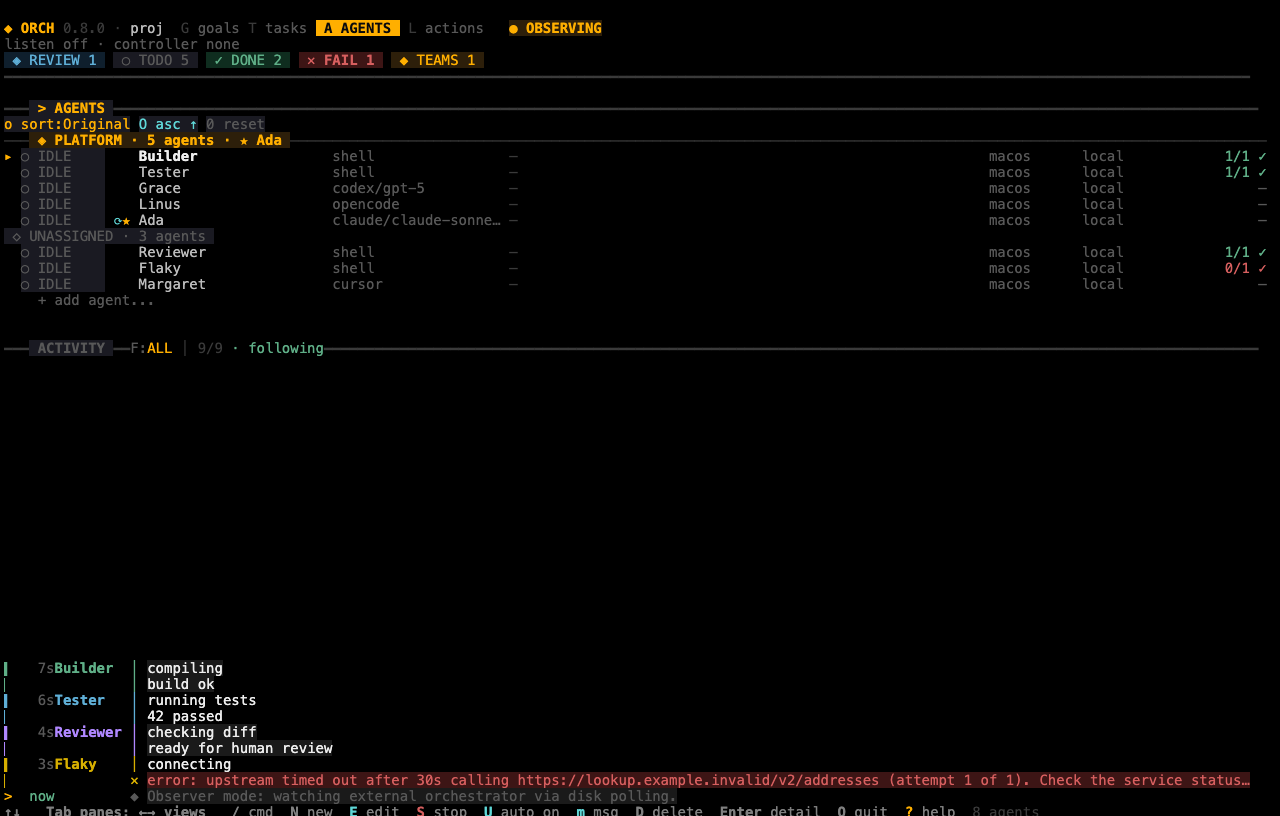
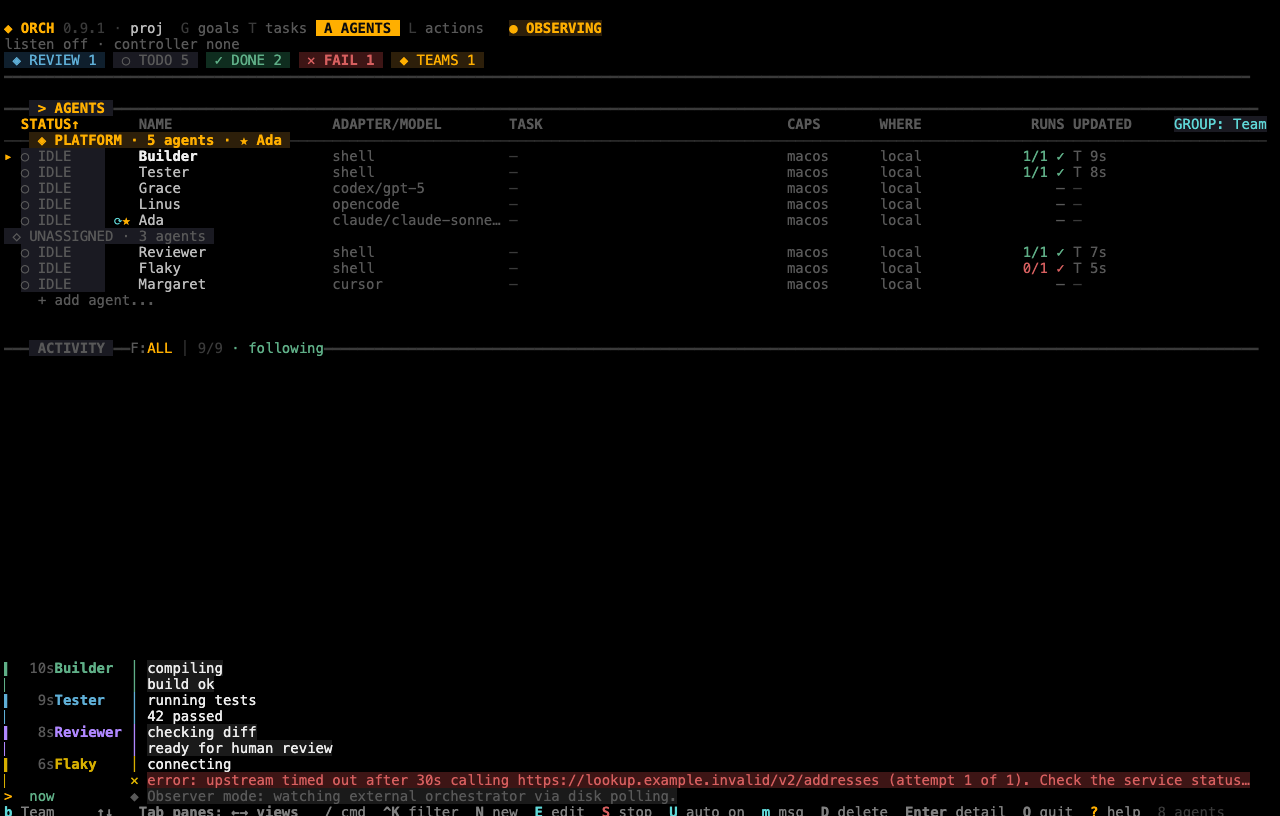
docs(manual): describe the Agents table and its groupings
- 08-dashboard: Sort the lists names the Agents default (STATUS↑) and the
  kept arrow on a cut label; Sort and group agents is rewritten for the
  eight sortable columns, UPDATED's R/T meaning, the six b/B groupings,
  the footer `b <Mode>` hint and the GROUP chip from 108 columns, and the
  narrow-terminal column order; the Agents keys table gains b/B and the
  header, footer and chip clicks; the keyword filter matches capabilities;
  the mouse-off footer marker reads `⌨ mouse off · F2`.
- 03-agents and 08-dashboard: the screenshot caption no longer describes
  the removed sort chips.
- images/dashboard-agents.png regenerated with docs/manual/tools.

diff --git a/docs/manual/08-dashboard.md b/docs/manual/08-dashboard.md
@@ -95,12 +95,12 @@ The dashboard has four views. The tab for the current view is upper case in the 
 |---|---|---|
 | Goals | `G` | [Goals](02-concepts.md#goals) and their progress. |
 | Tasks | `T` | [Tasks](02-concepts.md#tasks). This is the default view. |
-| Agents | `A` | [Agents](02-concepts.md#agents-and-adapters) as a table, grouped by team. |
+| Agents | `A` | [Agents](02-concepts.md#agents-and-adapters) as a table, grouped by team by default. |
 | Actions | `L` | The log of everything agents and the orchestrator did, with filters. |
 
-![The Agents view: a table of agents grouped by team, with each agent's status, adapter and model, platform, location and run results](images/dashboard-agents.png)
+![The Agents view: a table of agents grouped by team, with each agent's status, name, adapter and model, capabilities, location, runs and last update](images/dashboard-agents.png)
 
-*The Agents view. The sort controls sit above the table; the team lead is marked with a star.*
+*The Agents view, grouped by team. Click a column header to sort; the `GROUP: Team` chip at the end of the header row names the grouping. The team lead is marked with a star.*
 
 To switch views:
 
@@ -168,10 +168,10 @@ The Goals, Tasks and Agents lists have a column header row. Each list keeps its 
 |---|---|
 | `o` | Moves the sort to the next column, keeping the direction. |
 | `O` | Reverses the direction, keeping the column. |
-| `0` | Restores that list's default order. |
+| `0` | Restores that list's default order. In Agents that is STATUS ascending. |
 | Click a header | An inactive column sorts by it ascending; the active column flips its direction. |
 
-The active column is marked `↑` or `↓`.
+The active column is marked `↑` or `↓`. When a column is too narrow for its whole label, the label is cut and the arrow stays, for example `ADAPTER/…↑`. For what each Agents column sorts by, see [Sort and group agents](#sort-and-group-agents).
 
 Goals and Tasks also have a Started and an Elapsed* column, both blank for an entity that never started.
 
@@ -181,18 +181,97 @@ A task's Started is its earliest retained run record, which is written while the
 
 ## Sort and group agents
 
-In the Agents view you can sort and group the table for this session. The chips above the list offer the same controls.
+The Agents list is a table with one header row, like Goals and Tasks. You sort it with the keys in [Sort the lists](#sort-the-lists) and cut it into sections with `b`. The sort and the grouping are separate: the sort orders the agents inside each section, and neither one resets the other. Both keep the selected agent selected, and both last only until you close the dashboard.
 
-| Key | What it does |
+This is the Agents view of a small project in a 120-column terminal, grouped by team and in the default order:
+
+```text
+━━━ > AGENTS ━━━━━━━━━━━━━━━━━━━━━━━━━━━━━━━━━━━━━━━━━━━━━━━━━━━━━━━━━━━━━━━━━━━━━━━━━━━━━━━━━━━━━━━━━━━━━━━━━━━━━━━━━━
+  STATUS↑       NAME           ADAPTER/M… TASK                 CAPS       WHERE             RUNS UPDATED     GROUP: Team
+─── ◈ PLATFORM · 5 agents · ★ Ada ──────────────────────────────────────────────────────────────────────────────────────
+▸ ○ IDLE        Builder        shell      —                    macos      local            1/1 ✓ T 1m
+  ○ IDLE        Tester         shell      —                    macos      local            1/1 ✓ T 1m
+  ○ IDLE        Grace          codex/gpt… —                    macos      local                — —
+  ○ IDLE        Linus          opencode   —                    macos      local                — —
+  ○ IDLE     ⟳★ Ada            claude/cl… —                    macos      local                — —
+ ◇ UNASSIGNED · 3 agents
+  ○ IDLE        Reviewer       shell      —                    macos      local            1/1 ✓ T 19s
+  ○ IDLE        Flaky          shell      —                    macos      local            0/1 ✓ T 1m
+  ○ IDLE        Margaret       cursor     —                    macos      local                — —
+    + add agent...
+…
+b Team     ↑↓   Tab panes; ←→ views   / cmd  ^K filter  N new  E edit  S stop  U auto on  m msg  D delete  Enter detail
+```
+
+### The columns
+
+| Column | What it shows | Ascending order |
+|---|---|---|
+| STATUS | `ACTIVE` (with a spinner), `IDLE`, `ERROR`, `OFFLINE`, or `OFF` for a disabled agent. After it, `⟳` marks an agent in autonomous mode and `★` the lead of its team. | ACTIVE, IDLE, ERROR, OFFLINE, disabled. This is the default sort. |
+| NAME | The agent's name. | Alphabetical, ignoring case. |
+| ADAPTER/MODEL | The adapter, then `/` and the model if one is set. | By adapter, then by model. |
+| TASK | The title of the task an active agent is running. For an agent in `ERROR` it shows the error instead. | By task title. Rows with no running task count as blank. |
+| CAPS | Every capability of the agent, comma-separated. | Alphabetical by the cell's text. An agent with no capability counts as blank. |
+| WHERE | `local`, or the remote alias with its online or offline state. | `local` and the remote aliases, alphabetically. |
+| RUNS | Lifetime runs as completed/total, for example `1/1 ✓`. An agent that has never run shows `—`. | By total runs. |
+| UPDATED | Which agent's run or assignment record changed most recently (see below). | Oldest first. |
+
+Rules that hold for every column:
+
+- Agents with equal values keep their configured order, in both directions.
+- Blank values (`—`) sort last, in both directions.
+- RUNS shows lifetime statistics for an active agent too. The elapsed time of its live run is in the agent's detail: press `Enter` and read the `live` row of the Overview.
+
+### What UPDATED means
+
+UPDATED answers "which agent's run or assignment record changed most recently". It does not tell you when the agent last did anything. Each cell starts with a letter that says where the time comes from:
+
+| Cell | Source |
 |---|---|
-| `o` | Cycles the sort field: Original, Name, Status, Adapter/Model, Location. |
-| `O` | Switches between ascending and descending. |
-| `0` | Resets the sort to Original, ascending. The grouping is not changed. |
-| `b` | Switches the sections between By team (the default) and By node. |
+| `R <age>` | The newest start or event of the agent's live run. Only an agent with a run in progress has one. |
+| `T <age>` | The newest update of a task currently assigned to the agent. The assigned task record was updated; that may be an administrative change, such as an edit, an approval or a new assignment, and is not proof that the agent ran. |
+| `—` | Neither: no live run and no assigned task. |
 
-By team shows each active team, then the unassigned agents. By node shows a Local section for this instance's agents, then one section per remote alias in alias order, each marked online or offline.
+`R` wins over `T`, even when the task changed later. While UPDATED is the sort column, the footer spells out the letters as `R run · T task`. The agent's Overview has an `updated` row that gives the same value in words, for example:
 
-Sorting applies within each section and keeps the selected agent, and so does switching the grouping. Both last only until you close the dashboard. Original is the default order (section, then status, then source).
+```text
+updated  T 2m · assigned task record updated; may be an administrative change, not proof the agent ran
+```
+
+### Group the table
+
+Press `b` to move to the next grouping and `B` to move back. The modes come in this order and then start again:
+
+| Mode | Sections |
+|---|---|
+| Team (the default) | One section per active team, with its lead after `★`, then `◇ UNASSIGNED` for agents in no team. |
+| Node | `LOCAL` for this instance's agents, then one section per remote alias in alias order, marked `● online` or `○ offline`. |
+| Status | ACTIVE, IDLE, ERROR, OFFLINE, DISABLED, in that order. |
+| Adapter | One section per adapter, alphabetical. |
+| Caps | Grouped by first capability: each agent appears once, under its alphabetically first capability, and `◇ no caps` comes last. To find every agent with a capability, use the [keyword filter](#filter-a-list-by-keyword), which matches every capability. |
+| None | One table with no section rows. |
+
+A section with no agents is not drawn. Each section row counts its agents, for example `─── ◈ PLATFORM · 5 agents · ★ Ada ───`.
+
+The mode is always on screen:
+
+- **Footer.** The first hint in the footer names the mode, for example `b Team`. (While mouse capture is off, `⌨ mouse off · F2` comes before it.) Click it to move to the next mode, like `b`. This hint is there at every width.
+- **Header chip.** When the table is at least 108 columns wide, the header row ends with a `GROUP: <Mode>` chip, for example `GROUP: Team`. Click it to move to the next mode. Below 108 columns there is no chip.
+
+### Narrow terminals
+
+As the terminal gets narrower, UPDATED is the first column to go, then CAPS:
+
+- From 108 columns: every column and the `GROUP:` chip.
+- From 93 to 107 columns: every column, no chip.
+- From 84 to 92 columns: every column but UPDATED.
+- At 80 columns: STATUS, NAME, ADAPTER/MODEL, TASK, WHERE and RUNS.
+
+A sort by a column that is not shown still applies. The footer then names it after the mode, and a click on it moves the sort to the next column, like `o`. This is the footer at 80 columns while the list is sorted by CAPS:
+
+```text
+b Team     o Caps↑  ↑↓   Tab panes; ←→ views   / cmd  ^K filter  N new  E edit
+```
 
 ## Filter a list by keyword
 
@@ -207,7 +286,7 @@ On the Goals, Tasks or Agents list, press `Ctrl+K` (or click `^K filter` in the 
 | `Esc` | Clear the keyword and close the prompt. |
 | `Ctrl+U` | On the list: clear the keyword. |
 
-Matching ignores case and looks at each field on its own: the ID, the title or name, the status (both `in_progress` and the `RUN` the row shows), the assignee's or agent's name and ID, a task's goal, and an agent's team, adapter, model and node (`local` or the remote alias). Descriptions and the Started and Elapsed times are not searched.
+Matching ignores case and looks at each field on its own: the ID, the title or name, the status (both `in_progress` and the `RUN` the row shows), the assignee's or agent's name and ID, a task's goal, and an agent's team, adapter, model, node (`local` or the remote alias) and every capability. Descriptions and the Started and Elapsed times are not searched.
 
 A kept keyword shows as a `filter: … · matches/total` chip on the list's title rule; click the chip to clear it. The filter applies before sorting, grouping and the ten-task limit, so the ten tasks listed are all matches and a match past the first ten unfiltered tasks is not lost; with more than ten matches, `show all` lists the rest (`▼ Show all (2 more) — press S`). Empty sections disappear, and a goal section counts its listed tasks as `1/2 tasks`. The selected row stays selected while it still matches. Each list has its own keyword, up to 256 characters, kept until you close the dashboard. The Tasks keyword does not narrow a goal's [Tasks section](#a-goals-tasks-section). `/` still opens the command bar.
 
@@ -428,7 +507,7 @@ Mouse capture takes click-drag text selection away from the terminal. To get it 
 - In most terminals you can hold `Shift` while dragging. **This does not work under tmux.** Use `F2` there.
 - Start with the mouse off: `ORCH_TUI_MOUSE=0 orch`.
 
-Under tmux, clicks reach the dashboard only if you set `set -g mouse on`. While capture is off the footer shows `⌨ F2 mouse`.
+Under tmux, clicks reach the dashboard only if you set `set -g mouse on`. While capture is off the footer starts with `⌨ mouse off · F2`.
 
 ## Get help and quit
 
@@ -504,7 +583,10 @@ You can use these keys in every state. `F6` is not here: it works only in the vi
 | `D` | Delete the agent. |
 | `U` | Turn autonomous mode on or off. |
 | `m` | Message the agent (lower case only). |
-| `o`, `O`, `0` | Cycle the sort field, reverse the order, reset. |
+| `o`, `O`, `0` | Move the sort to the next column, reverse the direction, reset to STATUS ascending. |
+| Click a header | Sort by that column ascending, or flip the direction of the active column. |
+| `b`, `B` | Next or previous grouping: Team, Node, Status, Adapter, Caps, None. Upper case `B` goes back. |
+| Click `b <Mode>` in the footer, or the `GROUP:` chip | Next grouping, like `b`. |
 
 ### Goals view (main list focus)
 

diff --git a/docs/manual/03-agents.md b/docs/manual/03-agents.md
@@ -362,9 +362,9 @@ An unknown ID is an error:
 
 The dashboard shows agents as a table, with their status, task and model, and has a wizard for adding one. Press the agent action keys from the main list.
 
-![The Agents view: a table of agents grouped by team, with each agent's status, adapter and model, platform, location and run results](images/dashboard-agents.png)
+![The Agents view: a table of agents grouped by team, with each agent's status, name, adapter and model, capabilities, location, runs and last update](images/dashboard-agents.png)
 
-*The Agents view. The sort controls sit above the table; the team lead is marked with a star.*
+*The Agents view, grouped by team. Click a column header to sort; the `GROUP: Team` chip at the end of the header row names the grouping. The team lead is marked with a star.*
 
 ![The New Agent wizard on step 1 of 6, asking for the agent name, with a list of agent templates to browse below the input](images/dashboard-new-agent.png)
 
